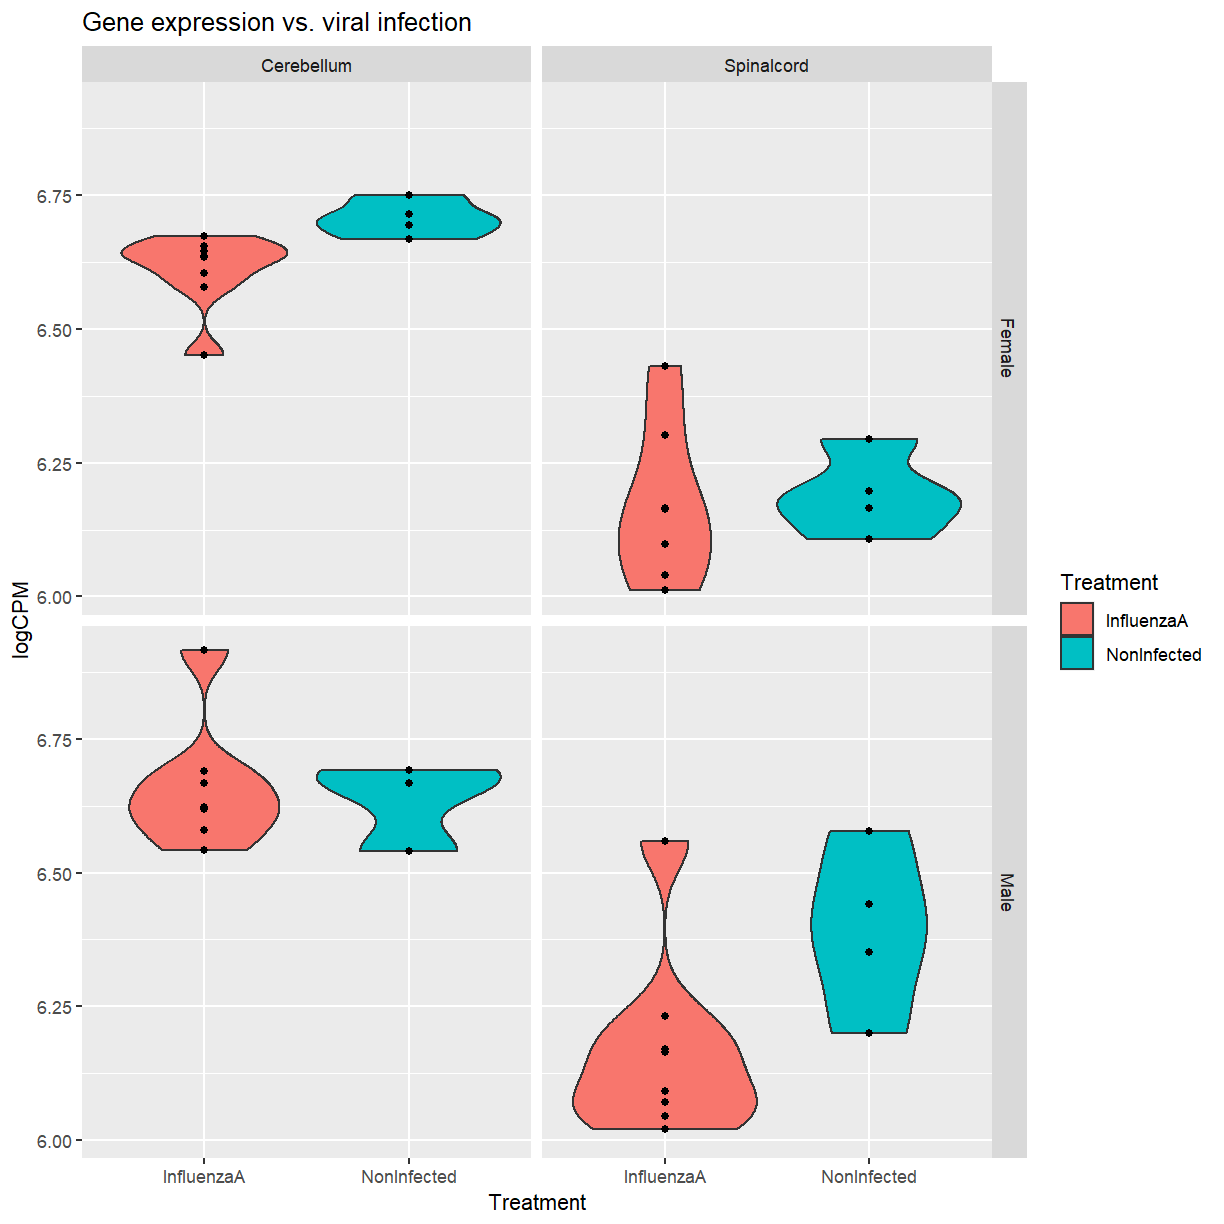
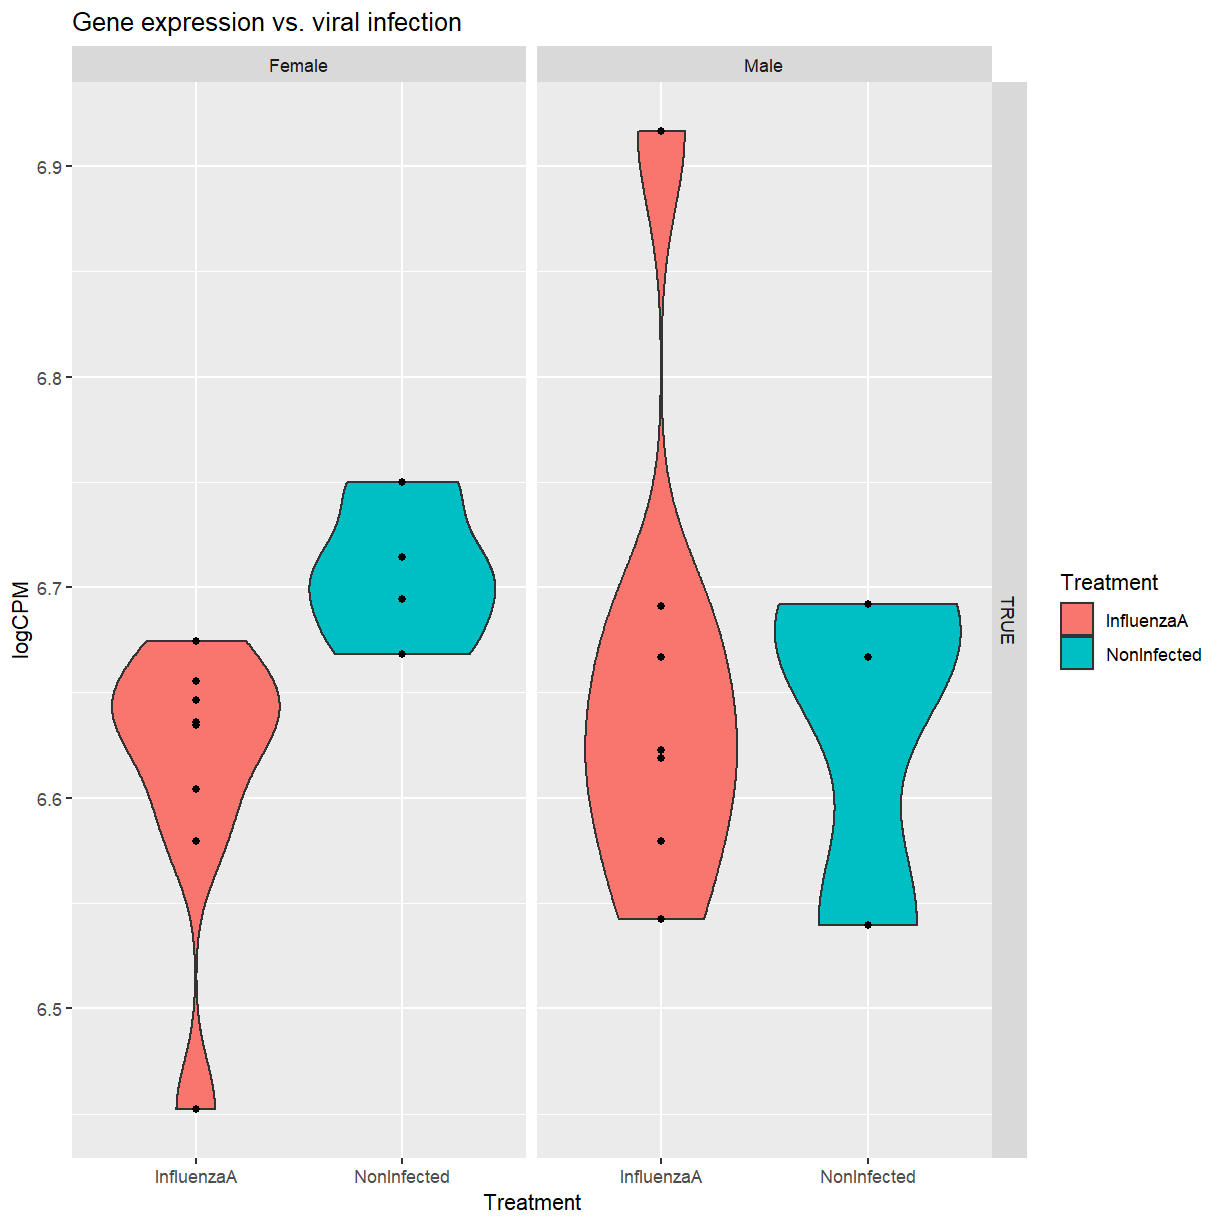
Render site

diff --git a/_episodes/30-graphics-with-ggplot2.md b/_episodes/30-graphics-with-ggplot2.md
@@ -47,13 +47,41 @@ head(rna)
 4    Klk6 GSM2545336        287 Mus musculus   8 Female InfluenzaA C57BL/6    8
 5   Fcrls GSM2545336         85 Mus musculus   8 Female InfluenzaA C57BL/6    8
 6  Slc2a4 GSM2545336        782 Mus musculus   8 Female InfluenzaA C57BL/6    8
-      tissue mouse
-1 Cerebellum    14
-2 Cerebellum    14
-3 Cerebellum    14
-4 Cerebellum    14
-5 Cerebellum    14
-6 Cerebellum    14
+      tissue mouse ENTREZID
+1 Cerebellum    14   109900
+2 Cerebellum    14    11815
+3 Cerebellum    14    56448
+4 Cerebellum    14    19144
+5 Cerebellum    14    80891
+6 Cerebellum    14    20528
+                                                                   product
+1                            argininosuccinate lyase transcript variant X1
+2                                    apolipoprotein D transcript variant 3
+3 cytochrome P450 family 2 subfamily d polypeptide 22 transcript variant 2
+4                      kallikrein related-peptidase 6 transcript variant 2
+5              Fc receptor-like S scavenger receptor transcript variant X1
+6       solute carrier family 2 (facilitated glucose transporter) member 4
+     ensembl_gene_id external_synonym chromosome_name   gene_biotype
+1 ENSMUSG00000025533    2510006M18Rik               5 protein_coding
+2 ENSMUSG00000022548             <NA>              16 protein_coding
+3 ENSMUSG00000061740             2D22              15 protein_coding
+4 ENSMUSG00000050063             Bssp               7 protein_coding
+5 ENSMUSG00000015852    2810439C17Rik               3 protein_coding
+6 ENSMUSG00000018566           Glut-4              11 protein_coding
+                            phenotype_description
+1           abnormal circulating amino acid level
+2                      abnormal lipid homeostasis
+3                        abnormal skin morphology
+4                         abnormal cytokine level
+5 decreased CD8-positive alpha-beta T cell number
+6              abnormal circulating glucose level
+  hsapiens_homolog_associated_gene_name
+1                                   ASL
+2                                  APOD
+3                                CYP2D6
+4                                  KLK6
+5                                 FCRL4
+6                                SLC2A4
 ~~~
 {: .output}
 
@@ -81,6 +109,12 @@ library(ggplot2)
 The [website for ggplot2](https://ggplot2.tidyverse.org/) has a cheatsheet and
 other useful documentation.  This is a very popular R package, so Google and
 Stack Overflow are also very helpful for getting answers!
+
+Since we'll be doing a lot of multi-line commands, it's very easy to accidentally
+send an incomplete command to the console.  If you are trying to execute ggplot
+commands and nothing is happening, look at the prompt in the lower left.  If it
+is a `+` instead of a `>`, click to put your cursor down there and then hit the
+<kbd>Esc</kbd> key.
 
 ## Your first plots
 
@@ -304,11 +338,14 @@ ggplot(rna, aes(x = infection, y = log1p(expression))) +
   geom_point(alpha = 0.01) +
   labs(x = "Treatment", fill = "Treatment", y = "logCPM",
        title = "Gene expression vs. viral infection") +
-  facet_wrap(~ tissue)
+  facet_wrap(~ sex)
 ~~~
 {: .language-r}
 
 <img src="../fig/rmd-ggfig140-1.png" title="plot of chunk ggfig140" alt="plot of chunk ggfig140" width="612" style="display: block; margin: auto;" />
+
+You can either use variables straight from your data frame, or create
+expressions in place, like `gene_biotype == "protein_coding"`.
 
 
 ~~~
@@ -317,11 +354,14 @@ ggplot(rna, aes(x = infection, y = log1p(expression))) +
   geom_point(alpha = 0.01) +
   labs(x = "Treatment", fill = "Treatment", y = "logCPM",
        title = "Gene expression vs. viral infection") +
-  facet_grid(sex ~ tissue)
+  facet_grid(gene_biotype == "protein_coding" ~ sex)
 ~~~
 {: .language-r}
 
 <img src="../fig/rmd-ggfig150-1.png" title="plot of chunk ggfig150" alt="plot of chunk ggfig150" width="612" style="display: block; margin: auto;" />
+
+Now we can see that for non-coding mRNAs, the distribution of expression
+depends both on sex and infection status.
 
 ### Scales
 
@@ -338,7 +378,7 @@ ggplot(rna, aes(x = infection, y = expression)) +
   geom_point(alpha = 0.01) +
   labs(x = "Treatment", fill = "Treatment", y = "Expression",
        title = "Gene expression vs. viral infection") +
-  facet_grid(sex ~ tissue) +
+  facet_grid(gene_biotype == "protein_coding" ~ sex) +
   scale_y_continuous(trans = "log1p",
                      breaks = c(0, 1e2, 1e3, 1e4, 1e5, 1e6))
 ~~~
@@ -367,7 +407,7 @@ ggplot(rna, aes(x = infection, y = expression)) +
 > >  geom_point(alpha = 0.01) +
 > >  labs(x = "Treatment", fill = "Treatment", y = "Expression",
 > >       title = "Gene expression vs. viral infection") +
-> >  facet_grid(sex ~ tissue) +
+> >  facet_grid(gene_biotype == "protein_coding" ~ sex) +
 > >  scale_y_continuous(trans = "log1p",
 > >                     breaks = c(0, 1e2, 1e3, 1e4, 1e5, 1e6)) +
 > >  scale_fill_manual(values = c(InfluenzaA = "darkolivegreen4",
@@ -392,7 +432,7 @@ ggplot(rna, aes(x = infection, y = log1p(expression))) +
   geom_point(alpha = 0.01) +
   labs(x = "Treatment", fill = "Treatment", y = "logCPM",
        title = "Gene expression vs. viral infection") +
-  facet_grid(sex ~ tissue) +
+  facet_grid(gene_biotype == "protein_coding" ~ sex) +
   theme_bw()
 ~~~
 {: .language-r}
@@ -408,7 +448,7 @@ ggplot(rna, aes(x = infection, y = log1p(expression))) +
   geom_point(alpha = 0.01) +
   labs(x = "Treatment", fill = "Treatment", y = "logCPM",
        title = "Gene expression vs. viral infection") +
-  facet_grid(sex ~ tissue) +
+  facet_grid(gene_biotype == "protein_coding" ~ sex) +
   theme(text = element_text(family = "serif"))
 ~~~
 {: .language-r}
@@ -424,7 +464,7 @@ ggplot(rna, aes(x = infection, y = log1p(expression))) +
   geom_point(alpha = 0.01) +
   labs(x = "Treatment", fill = "Treatment", y = "logCPM",
        title = "Gene expression vs. viral infection") +
-  facet_grid(sex ~ tissue) +
+  facet_grid(gene_biotype == "protein_coding" ~ sex) +
   theme(text = element_text(family = "serif"),
         axis.text.x = element_text(angle = 90, vjust = 0.5, hjust = 1))
 ~~~
@@ -446,7 +486,7 @@ ggplot(rna, aes(x = infection, y = log1p(expression))) +
   geom_point(alpha = 0.01) +
   labs(x = "Treatment", fill = "Treatment", y = "logCPM",
        title = "Gene expression vs. viral infection") +
-  facet_grid(sex ~ tissue) +
+  facet_grid(gene_biotype == "protein_coding" ~ sex) +
   coord_flip()
 ~~~
 {: .language-r}
@@ -533,7 +573,7 @@ ggplot(rna[rna$gene == "Swt1",], aes(x = infection, y = log1p(expression))) +
   geom_point() +
   labs(x = "Treatment", fill = "Treatment", y = "logCPM",
        title = "Gene expression vs. viral infection") +
-  facet_grid(sex ~ tissue)
+  facet_grid(gene_biotype == "protein_coding" ~ sex)
 ~~~
 {: .language-r}
 
@@ -588,7 +628,7 @@ rna %>%
   geom_point() +
   labs(x = "Treatment", fill = "Treatment", y = "logCPM",
        title = "Gene expression vs. viral infection") +
-  facet_grid(sex ~ tissue)
+  facet_grid(gene_biotype == "protein_coding" ~ sex)
 ~~~
 {: .language-r}
 
@@ -618,7 +658,7 @@ head(rna_wider)
 
 
 ~~~
-# A tibble: 6 x 46
+# A tibble: 6 x 23
   gene    GSM2545336 GSM2545337 GSM2545338 GSM2545339 GSM2545340 GSM2545341
   <chr>        <int>      <int>      <int>      <int>      <int>      <int>
 1 Asl           1170        361        400        586        626        988
@@ -627,13 +667,11 @@ head(rna_wider)
 4 Klk6           287        629        641        578        448        195
 5 Fcrls           85        233        244        237        180         38
 6 Slc2a4         782        231        248        265        313        786
-# ... with 39 more variables: GSM2545342 <int>, GSM2545343 <int>,
+# ... with 16 more variables: GSM2545342 <int>, GSM2545343 <int>,
 #   GSM2545344 <int>, GSM2545345 <int>, GSM2545346 <int>, GSM2545347 <int>,
 #   GSM2545348 <int>, GSM2545349 <int>, GSM2545350 <int>, GSM2545351 <int>,
-#   GSM2545352 <int>, GSM2545353 <int>, GSM2545354 <int>, GSM2545355 <int>,
-#   GSM2545356 <int>, GSM2545357 <int>, GSM2545358 <int>, GSM2545359 <int>,
-#   GSM2545360 <int>, GSM2545361 <int>, GSM2545362 <int>, GSM2545363 <int>,
-#   GSM2545364 <int>, GSM2545365 <int>, GSM2545366 <int>, GSM2545367 <int>, ...
+#   GSM2545352 <int>, GSM2545353 <int>, GSM2545354 <int>, GSM2545362 <int>,
+#   GSM2545363 <int>, GSM2545380 <int>
 ~~~
 {: .output}
 
@@ -699,11 +737,65 @@ head(metadata)
 ~~~
          sample    sex   infection time     tissue mouse
 1    GSM2545336 Female  InfluenzaA    8 Cerebellum    14
-1478 GSM2545337 Female NonInfected    0 Cerebellum     9
-2955 GSM2545338 Female NonInfected    0 Cerebellum    10
-4432 GSM2545339 Female  InfluenzaA    4 Cerebellum    15
-5909 GSM2545340   Male  InfluenzaA    4 Cerebellum    18
-7386 GSM2545341   Male  InfluenzaA    8 Cerebellum     6
+1475 GSM2545337 Female NonInfected    0 Cerebellum     9
+2949 GSM2545338 Female NonInfected    0 Cerebellum    10
+4423 GSM2545339 Female  InfluenzaA    4 Cerebellum    15
+5897 GSM2545340   Male  InfluenzaA    4 Cerebellum    18
+7371 GSM2545341   Male  InfluenzaA    8 Cerebellum     6
+~~~
+{: .output}
+
+I'll also build a table of gene metadata, which you would have hypothetically
+imported from another spreadsheet.
+
+
+~~~
+genes <- rna[,c("gene", "ENTREZID", "product", "ensembl_gene_id",
+                "chromosome_name", "gene_biotype", "phenotype_description",
+                "hsapiens_homolog_associated_gene_name")]
+genes <- genes[!duplicated(genes),]
+head(genes)
+~~~
+{: .language-r}
+
+
+
+~~~
+     gene ENTREZID
+1     Asl   109900
+2    Apod    11815
+3 Cyp2d22    56448
+4    Klk6    19144
+5   Fcrls    80891
+6  Slc2a4    20528
+                                                                   product
+1                            argininosuccinate lyase transcript variant X1
+2                                    apolipoprotein D transcript variant 3
+3 cytochrome P450 family 2 subfamily d polypeptide 22 transcript variant 2
+4                      kallikrein related-peptidase 6 transcript variant 2
+5              Fc receptor-like S scavenger receptor transcript variant X1
+6       solute carrier family 2 (facilitated glucose transporter) member 4
+     ensembl_gene_id chromosome_name   gene_biotype
+1 ENSMUSG00000025533               5 protein_coding
+2 ENSMUSG00000022548              16 protein_coding
+3 ENSMUSG00000061740              15 protein_coding
+4 ENSMUSG00000050063               7 protein_coding
+5 ENSMUSG00000015852               3 protein_coding
+6 ENSMUSG00000018566              11 protein_coding
+                            phenotype_description
+1           abnormal circulating amino acid level
+2                      abnormal lipid homeostasis
+3                        abnormal skin morphology
+4                         abnormal cytokine level
+5 decreased CD8-positive alpha-beta T cell number
+6              abnormal circulating glucose level
+  hsapiens_homolog_associated_gene_name
+1                                   ASL
+2                                  APOD
+3                                CYP2D6
+4                                  KLK6
+5                                 FCRL4
+6                                SLC2A4
 ~~~
 {: .output}
 
@@ -713,6 +805,7 @@ dataset.
 
 ~~~
 rna_orig <- left_join(rna_longer, metadata, by = "sample")
+rna_orig <- left_join(rna_orig, genes, by = "gene")
 head(rna_orig)
 ~~~
 {: .language-r}
@@ -720,15 +813,18 @@ head(rna_orig)
 
 
 ~~~
-# A tibble: 6 x 8
-  gene  sample     expression sex    infection    time tissue     mouse
-  <chr> <chr>           <int> <chr>  <chr>       <int> <chr>      <int>
-1 Asl   GSM2545336       1170 Female InfluenzaA      8 Cerebellum    14
-2 Asl   GSM2545337        361 Female NonInfected     0 Cerebellum     9
-3 Asl   GSM2545338        400 Female NonInfected     0 Cerebellum    10
-4 Asl   GSM2545339        586 Female InfluenzaA      4 Cerebellum    15
-5 Asl   GSM2545340        626 Male   InfluenzaA      4 Cerebellum    18
-6 Asl   GSM2545341        988 Male   InfluenzaA      8 Cerebellum     6
+# A tibble: 6 x 15
+  gene  sample     expression sex    infection  time tissue mouse ENTREZID product
+  <chr> <chr>           <int> <chr>  <chr>     <int> <chr>  <int>    <int> <chr>  
+1 Asl   GSM2545336       1170 Female Influenz~     8 Cereb~    14   109900 argini~
+2 Asl   GSM2545337        361 Female NonInfec~     0 Cereb~     9   109900 argini~
+3 Asl   GSM2545338        400 Female NonInfec~     0 Cereb~    10   109900 argini~
+4 Asl   GSM2545339        586 Female Influenz~     4 Cereb~    15   109900 argini~
+5 Asl   GSM2545340        626 Male   Influenz~     4 Cereb~    18   109900 argini~
+6 Asl   GSM2545341        988 Male   Influenz~     8 Cereb~     6   109900 argini~
+# ... with 5 more variables: ensembl_gene_id <chr>, chromosome_name <chr>,
+#   gene_biotype <chr>, phenotype_description <chr>,
+#   hsapiens_homolog_associated_gene_name <chr>
 ~~~
 {: .output}
 
@@ -740,7 +836,7 @@ ggplot(rna_orig, aes(x = infection, y = log1p(expression))) +
   geom_point(alpha = 0.01) +
   labs(x = "Treatment", fill = "Treatment", y = "logCPM",
        title = "Gene expression vs. viral infection") +
-  facet_grid(sex ~ tissue)
+  facet_grid(gene_biotype == "protein_coding" ~ sex)
 ~~~
 {: .language-r}
 

diff --git a/_episodes/25-starting-with-data.md b/_episodes/25-starting-with-data.md
@@ -117,13 +117,41 @@ head(rna)
 4    Klk6 GSM2545336        287 Mus musculus   8 Female InfluenzaA C57BL/6    8
 5   Fcrls GSM2545336         85 Mus musculus   8 Female InfluenzaA C57BL/6    8
 6  Slc2a4 GSM2545336        782 Mus musculus   8 Female InfluenzaA C57BL/6    8
-      tissue mouse
-1 Cerebellum    14
-2 Cerebellum    14
-3 Cerebellum    14
-4 Cerebellum    14
-5 Cerebellum    14
-6 Cerebellum    14
+      tissue mouse ENTREZID
+1 Cerebellum    14   109900
+2 Cerebellum    14    11815
+3 Cerebellum    14    56448
+4 Cerebellum    14    19144
+5 Cerebellum    14    80891
+6 Cerebellum    14    20528
+                                                                   product
+1                            argininosuccinate lyase transcript variant X1
+2                                    apolipoprotein D transcript variant 3
+3 cytochrome P450 family 2 subfamily d polypeptide 22 transcript variant 2
+4                      kallikrein related-peptidase 6 transcript variant 2
+5              Fc receptor-like S scavenger receptor transcript variant X1
+6       solute carrier family 2 (facilitated glucose transporter) member 4
+     ensembl_gene_id external_synonym chromosome_name   gene_biotype
+1 ENSMUSG00000025533    2510006M18Rik               5 protein_coding
+2 ENSMUSG00000022548             <NA>              16 protein_coding
+3 ENSMUSG00000061740             2D22              15 protein_coding
+4 ENSMUSG00000050063             Bssp               7 protein_coding
+5 ENSMUSG00000015852    2810439C17Rik               3 protein_coding
+6 ENSMUSG00000018566           Glut-4              11 protein_coding
+                            phenotype_description
+1           abnormal circulating amino acid level
+2                      abnormal lipid homeostasis
+3                        abnormal skin morphology
+4                         abnormal cytokine level
+5 decreased CD8-positive alpha-beta T cell number
+6              abnormal circulating glucose level
+  hsapiens_homolog_associated_gene_name
+1                                   ASL
+2                                  APOD
+3                                CYP2D6
+4                                  KLK6
+5                                 FCRL4
+6                                SLC2A4
 ~~~
 {: .output}
 
@@ -196,18 +224,26 @@ str(rna)
 
 
 ~~~
-'data.frame':	66465 obs. of  11 variables:
- $ gene      : chr  "Asl" "Apod" "Cyp2d22" "Klk6" ...
- $ sample    : chr  "GSM2545336" "GSM2545336" "GSM2545336" "GSM2545336" ...
- $ expression: int  1170 36194 4060 287 85 782 1619 288 43217 1071 ...
- $ organism  : chr  "Mus musculus" "Mus musculus" "Mus musculus" "Mus musculus" ...
- $ age       : int  8 8 8 8 8 8 8 8 8 8 ...
- $ sex       : chr  "Female" "Female" "Female" "Female" ...
- $ infection : chr  "InfluenzaA" "InfluenzaA" "InfluenzaA" "InfluenzaA" ...
- $ strain    : chr  "C57BL/6" "C57BL/6" "C57BL/6" "C57BL/6" ...
- $ time      : int  8 8 8 8 8 8 8 8 8 8 ...
- $ tissue    : chr  "Cerebellum" "Cerebellum" "Cerebellum" "Cerebellum" ...
- $ mouse     : int  14 14 14 14 14 14 14 14 14 14 ...
+'data.frame':	32428 obs. of  19 variables:
+ $ gene                                 : chr  "Asl" "Apod" "Cyp2d22" "Klk6" ...
+ $ sample                               : chr  "GSM2545336" "GSM2545336" "GSM2545336" "GSM2545336" ...
+ $ expression                           : int  1170 36194 4060 287 85 782 1619 288 43217 1071 ...
+ $ organism                             : chr  "Mus musculus" "Mus musculus" "Mus musculus" "Mus musculus" ...
+ $ age                                  : int  8 8 8 8 8 8 8 8 8 8 ...
+ $ sex                                  : chr  "Female" "Female" "Female" "Female" ...
+ $ infection                            : chr  "InfluenzaA" "InfluenzaA" "InfluenzaA" "InfluenzaA" ...
+ $ strain                               : chr  "C57BL/6" "C57BL/6" "C57BL/6" "C57BL/6" ...
+ $ time                                 : int  8 8 8 8 8 8 8 8 8 8 ...
+ $ tissue                               : chr  "Cerebellum" "Cerebellum" "Cerebellum" "Cerebellum" ...
+ $ mouse                                : int  14 14 14 14 14 14 14 14 14 14 ...
+ $ ENTREZID                             : int  109900 11815 56448 19144 80891 20528 97827 118454 18823 14696 ...
+ $ product                              : chr  "argininosuccinate lyase transcript variant X1" "apolipoprotein D transcript variant 3" "cytochrome P450 family 2 subfamily d polypeptide 22 transcript variant 2" "kallikrein related-peptidase 6 transcript variant 2" ...
+ $ ensembl_gene_id                      : chr  "ENSMUSG00000025533" "ENSMUSG00000022548" "ENSMUSG00000061740" "ENSMUSG00000050063" ...
+ $ external_synonym                     : chr  "2510006M18Rik" NA "2D22" "Bssp" ...
+ $ chromosome_name                      : chr  "5" "16" "15" "7" ...
+ $ gene_biotype                         : chr  "protein_coding" "protein_coding" "protein_coding" "protein_coding" ...
+ $ phenotype_description                : chr  "abnormal circulating amino acid level" "abnormal lipid homeostasis" "abnormal skin morphology" "abnormal cytokine level" ...
+ $ hsapiens_homolog_associated_gene_name: chr  "ASL" "APOD" "CYP2D6" "KLK6" ...
 ~~~
 {: .output}
 
